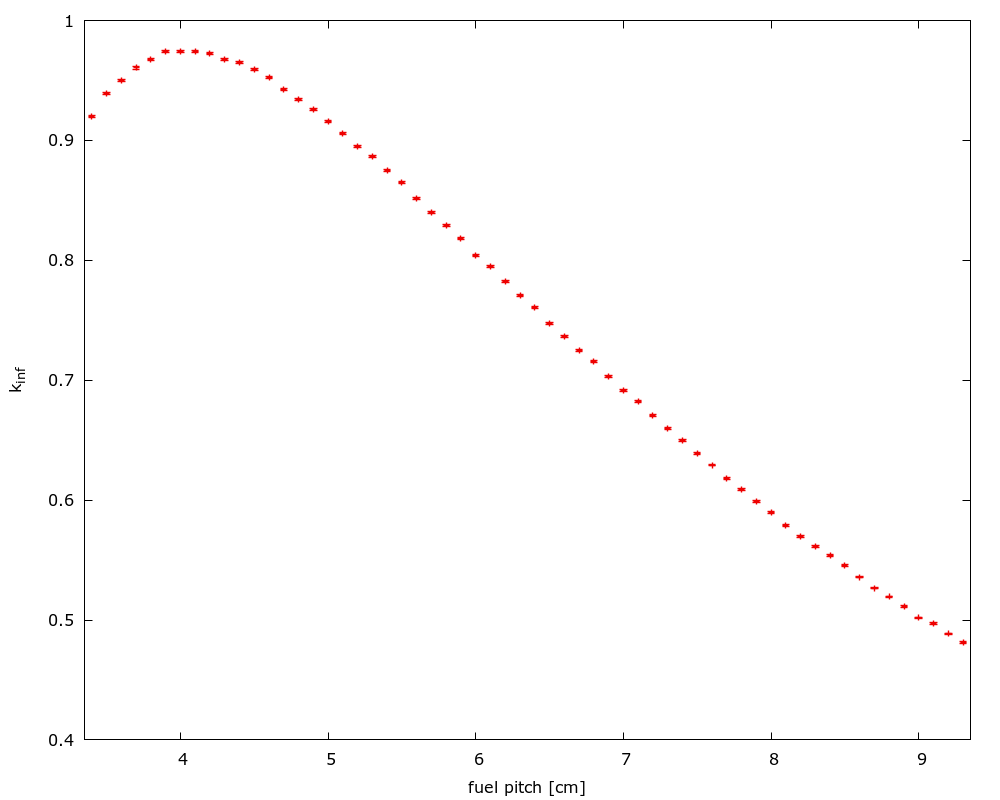
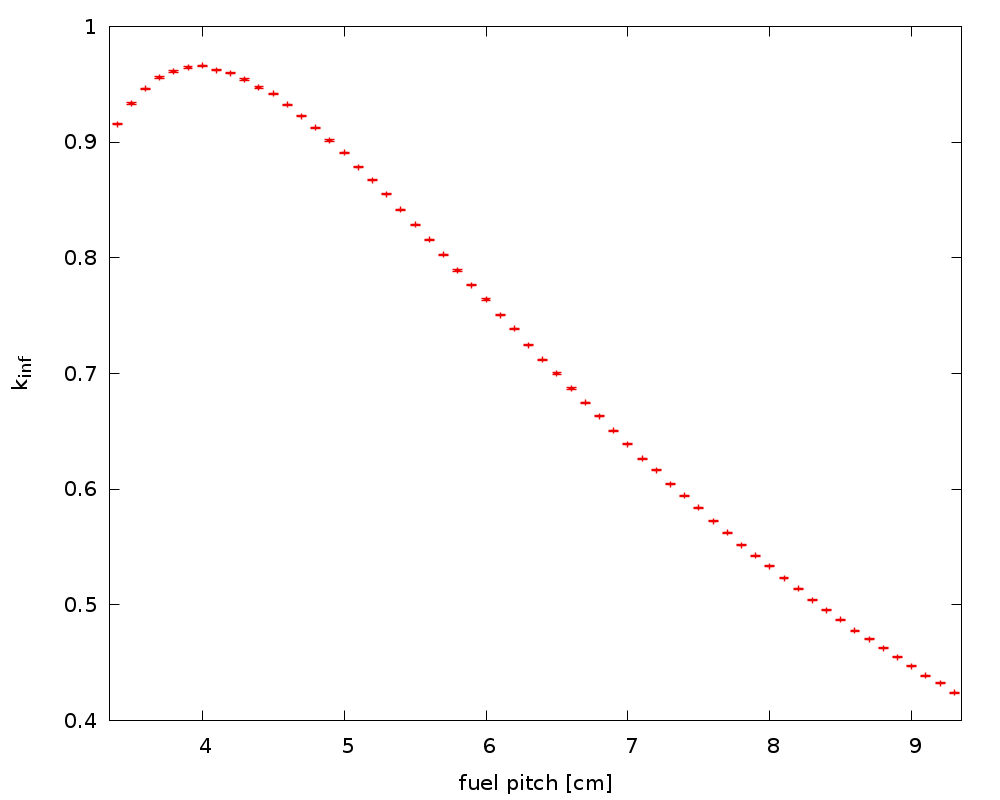
updated studies

diff --git a/inflat/scripts/infdeck.py b/inflat/scripts/infdeck.py
@@ -34,7 +34,7 @@ def write_deck(pitch=5.0):
 set bc 3
 
 % Neutron population and criticality cycles
-set pop 25000 200 40 % 25000 neutrons, 200 active cycles, 40 inactive cycles
+set pop 250000 200 40 % 25000 neutrons, 200 active cycles, 40 inactive cycles
 
 % Data Libraries
 set acelib "sss_endfb7u.sssdir"
